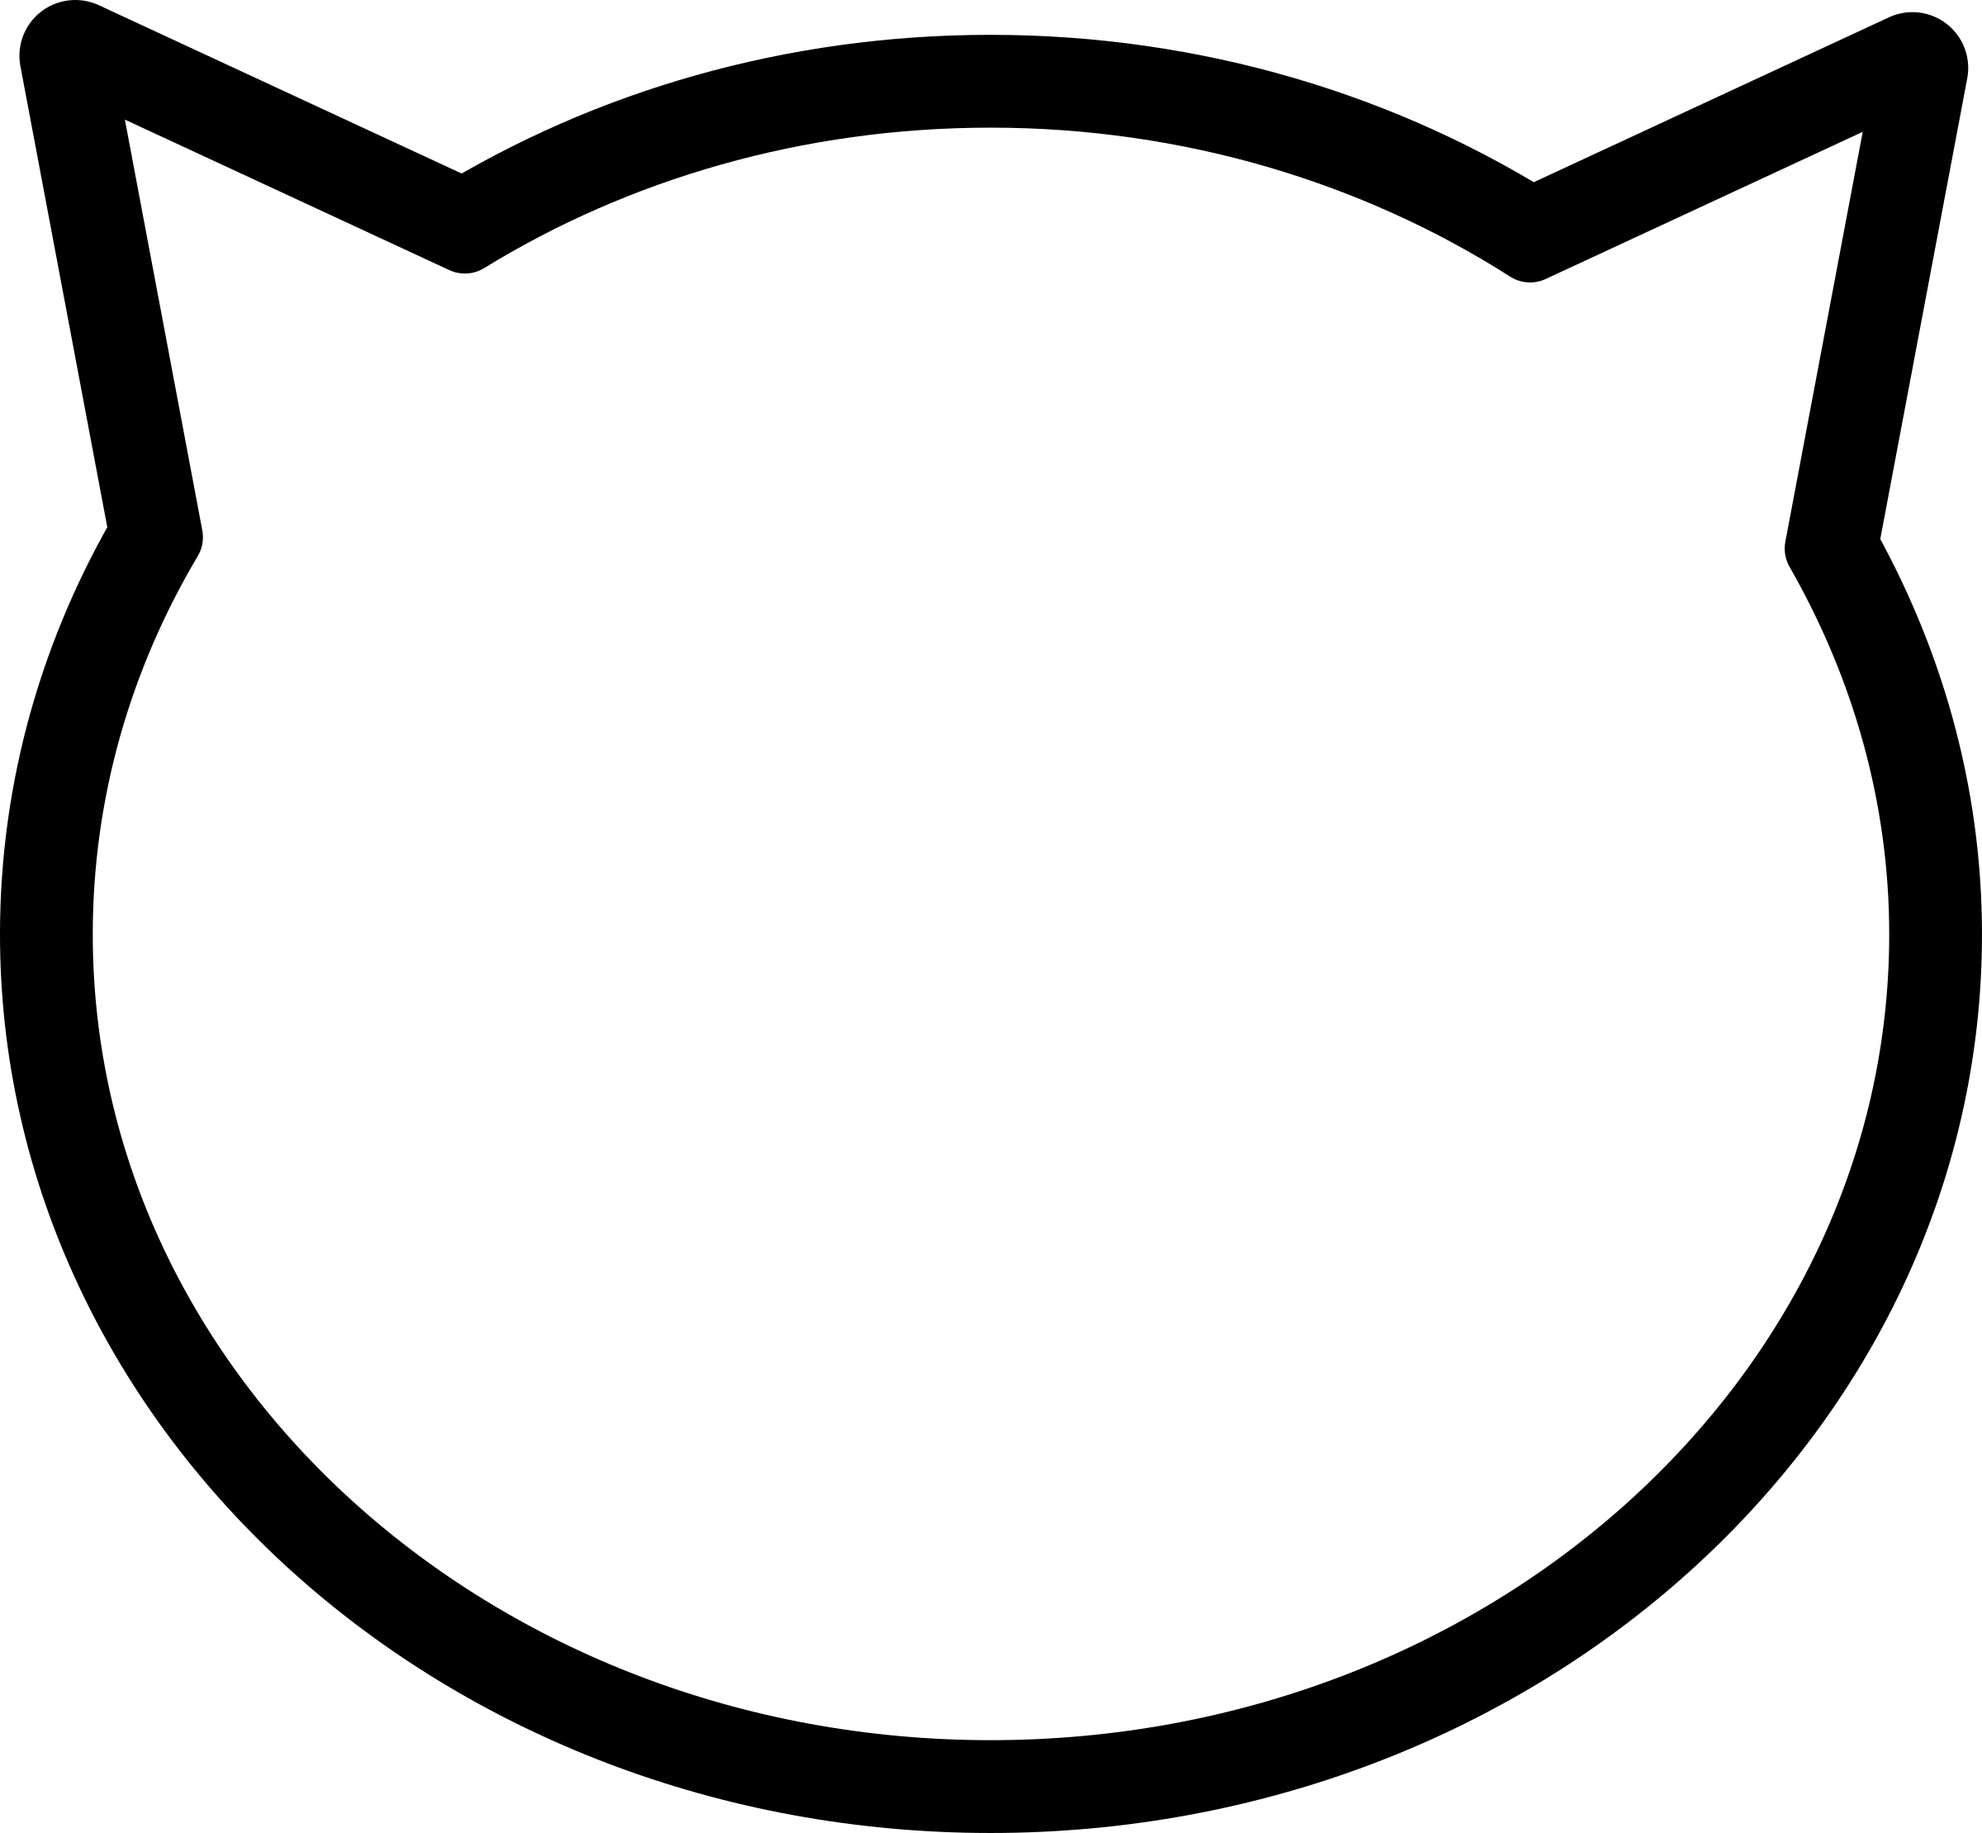
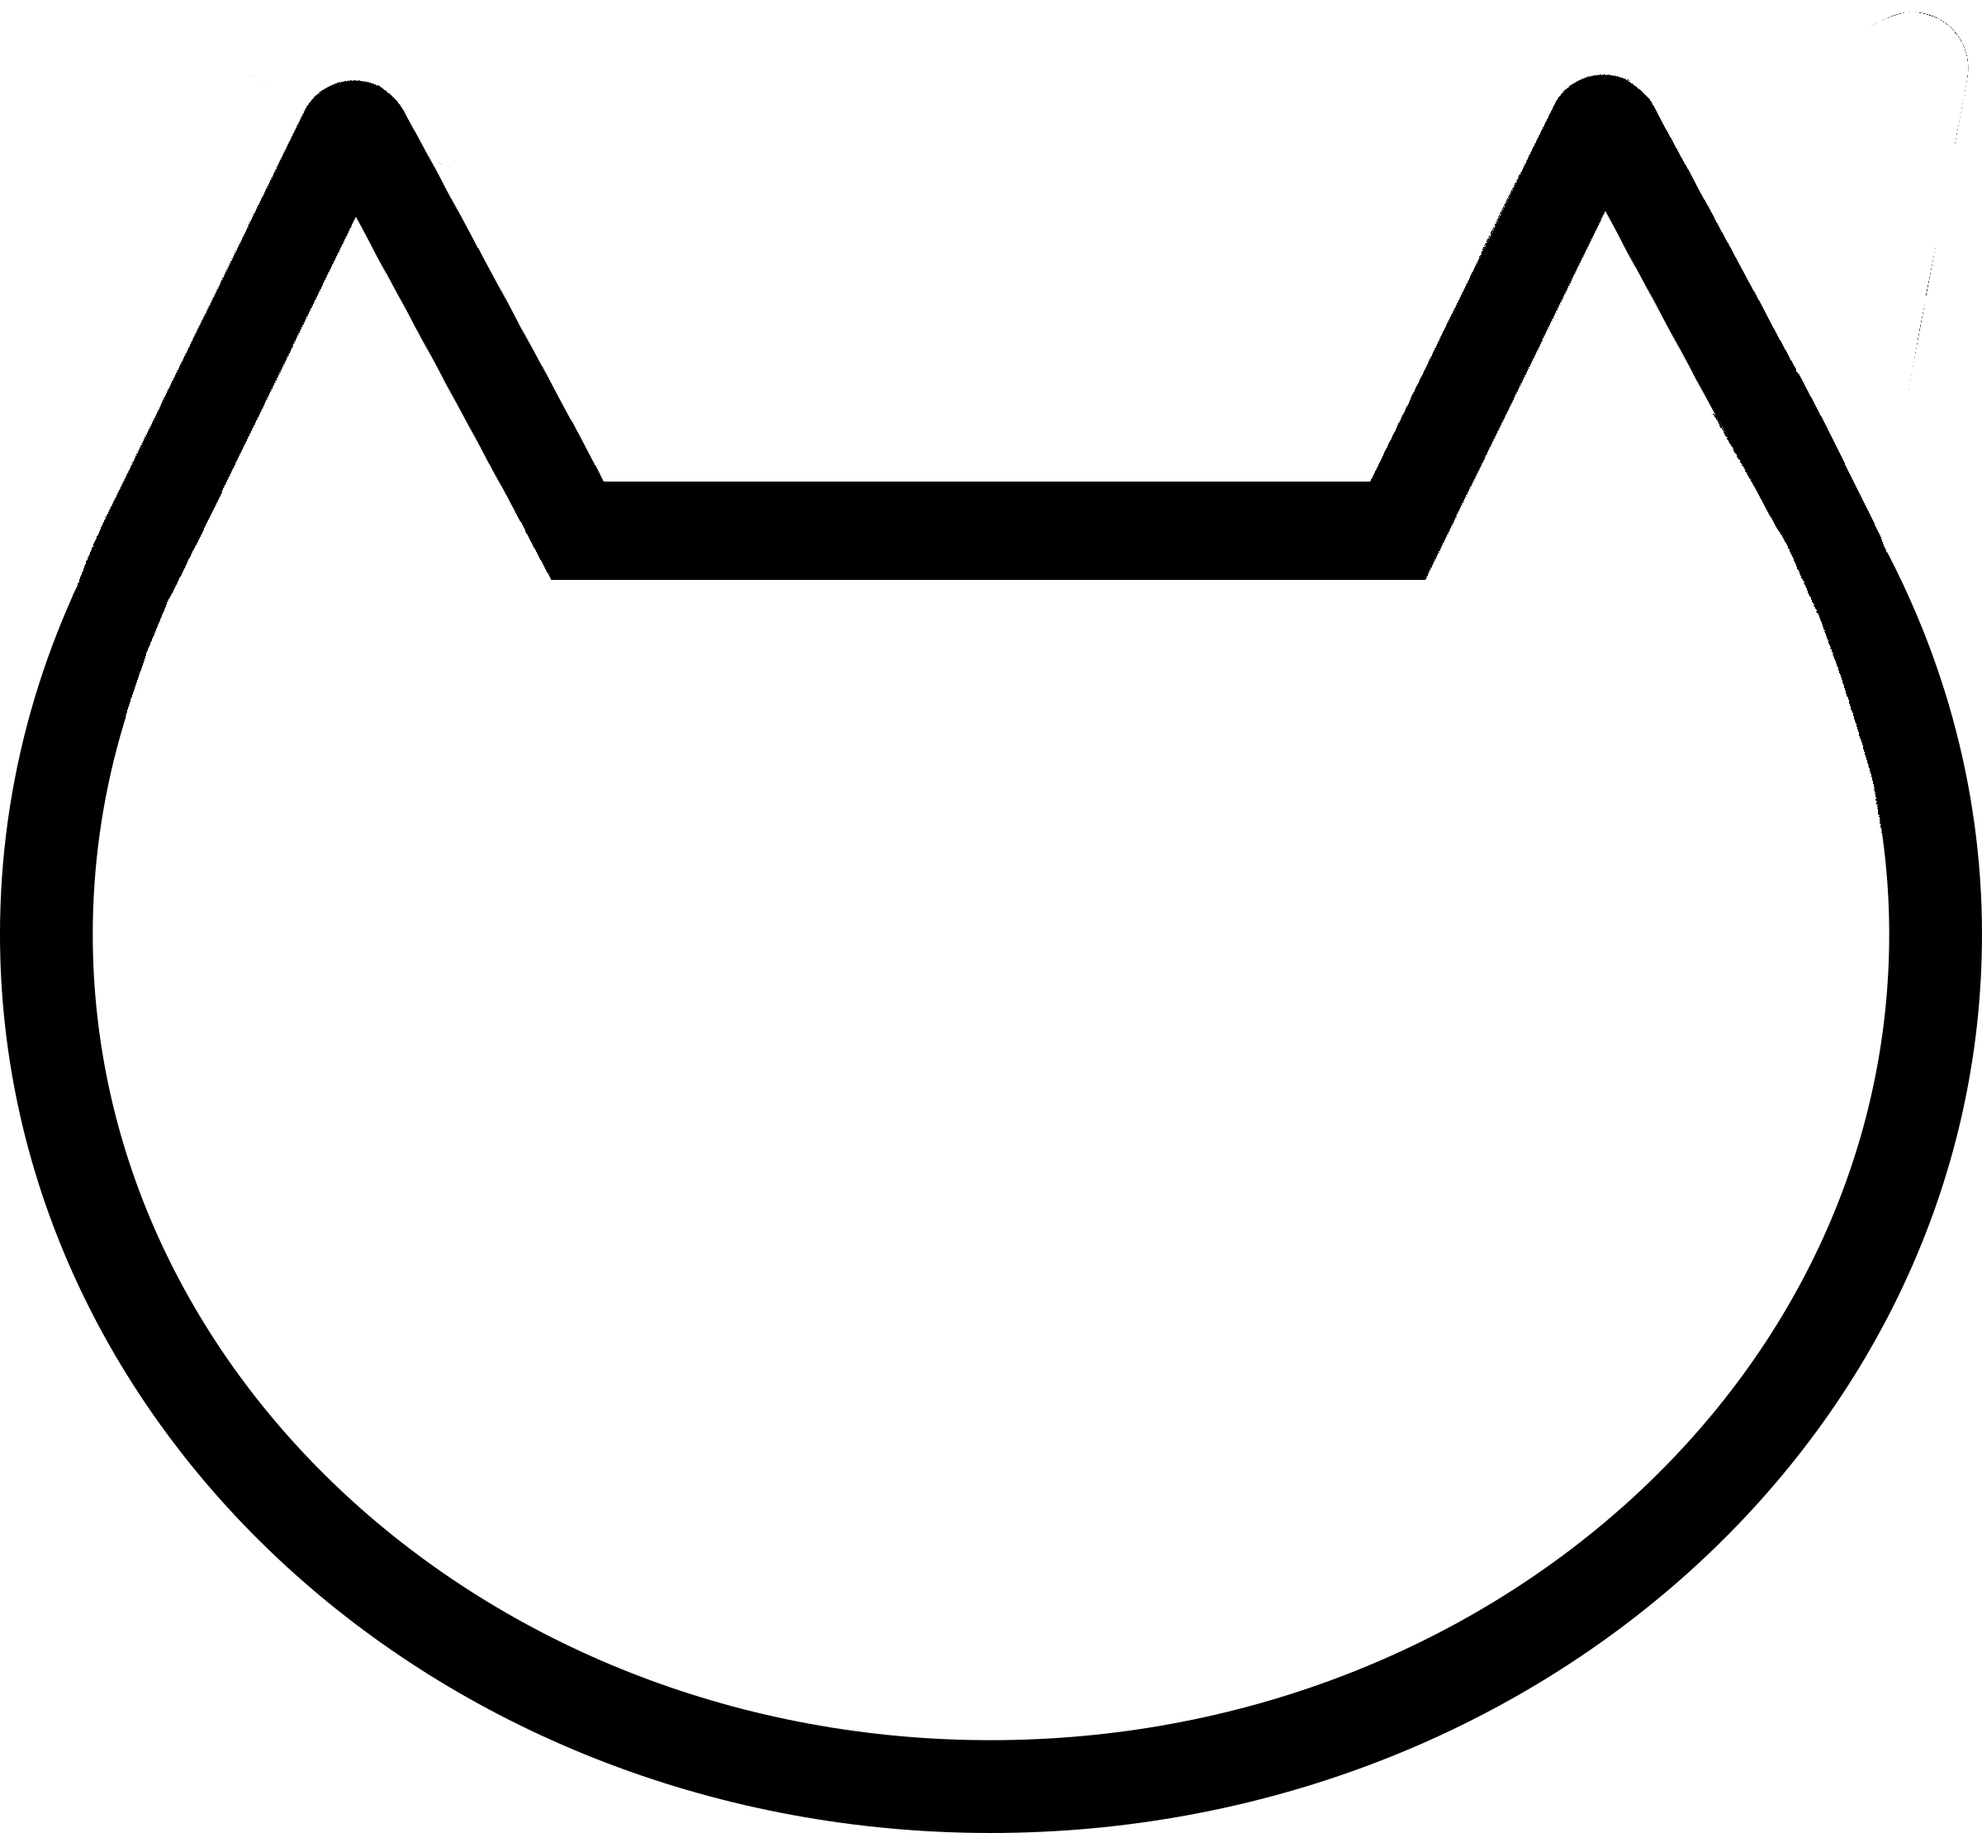
cat EARSS

Changed region(s): [[0.0, 0.0, 1.0, 0.342]]

diff --git a/public/js/customize.js b/public/js/customize.js
@@ -50,11 +50,45 @@ slider1.oninput = function () {
 	//	document.getElementById('leftEye').style.padding-right=10;
 }
 
+
+let height = document.getElementById("leftEGrey").height;
+let bottom = document.getElementById("leftEGrey").bottom;
+
 output2.innerHTML = slider2.value;
 slider2.oninput = function () {
 	output2.innerHTML = this.value;
 	earsApart = this.value;
-	console.log("ears: " + earsApart);
+
+	//let newBottom = bottom + 
+	//document.getElementById("leftEGrey").style.bottom 
+
+
+	
+	console.log("height is " + height);
+	let leftEarGMove = earsApart - 50;
+
+	console.log("leftEarGMove is " + leftEarGMove);
+	let newEar = height + leftEarGMove;
+
+	document.getElementById("leftEGrey").style.height = newEar;
+	document.getElementById("rightEGrey").style.height = newEar;
+	console.log("newEar is " + newEar);
+	console.log("bottom " + bottom);
+
+	let newBottom = bottom + leftEarGMove;
+
+	document.getElementById("leftEGrey").style.bottom = newBottom;
+	document.getElementById("rightEGrey").style.bottom = newBottom;
+
+
+
+	//document.getElementById("leftEGrey") = input;
+	//leftEarGMove = ((input - 50) + 100);
+
+	//var ear = cl.transformation
+
+
+	//document.getElementById("leftEGrey").style.marginLeft = leftEarGMove;
 }
 
 

diff --git a/public/css/styles.css b/public/css/styles.css
@@ -285,8 +285,9 @@ hr{
 
 .catFace {
     position: relative;
-    width: 31vw;
+    width: 38vw;
     height: auto;
+    /*right: 2vw;*/
     z-index: 1;
 }
 
@@ -296,7 +297,7 @@ hr{
     right: 1180px;*/
     width: 6vw;
     height: auto;
-    right: -9vw;
+    right: -9vw; 
     bottom: 22vw;
     z-index: 2;
     /*    bottom: 10vw;
@@ -321,6 +322,27 @@ hr{
     bottom: 41vw;
     z-index: 2;
 }
+
+
+.catleftEGrey {
+    position: absolute;
+    width: 11vw;
+    height: auto;
+    right: 27.5vw;
+    bottom: 53.26vw;
+    z-index: 2;
+}
+
+.catrightEGrey {
+    position: absolute;
+    width: 11vw;
+    height: auto;
+    right: 3.52vw;
+    bottom: 53.26vw;
+    z-index: 2;
+}
+
+
 
 /************************ END CUSTOMIZE PAGE **************************/
 
